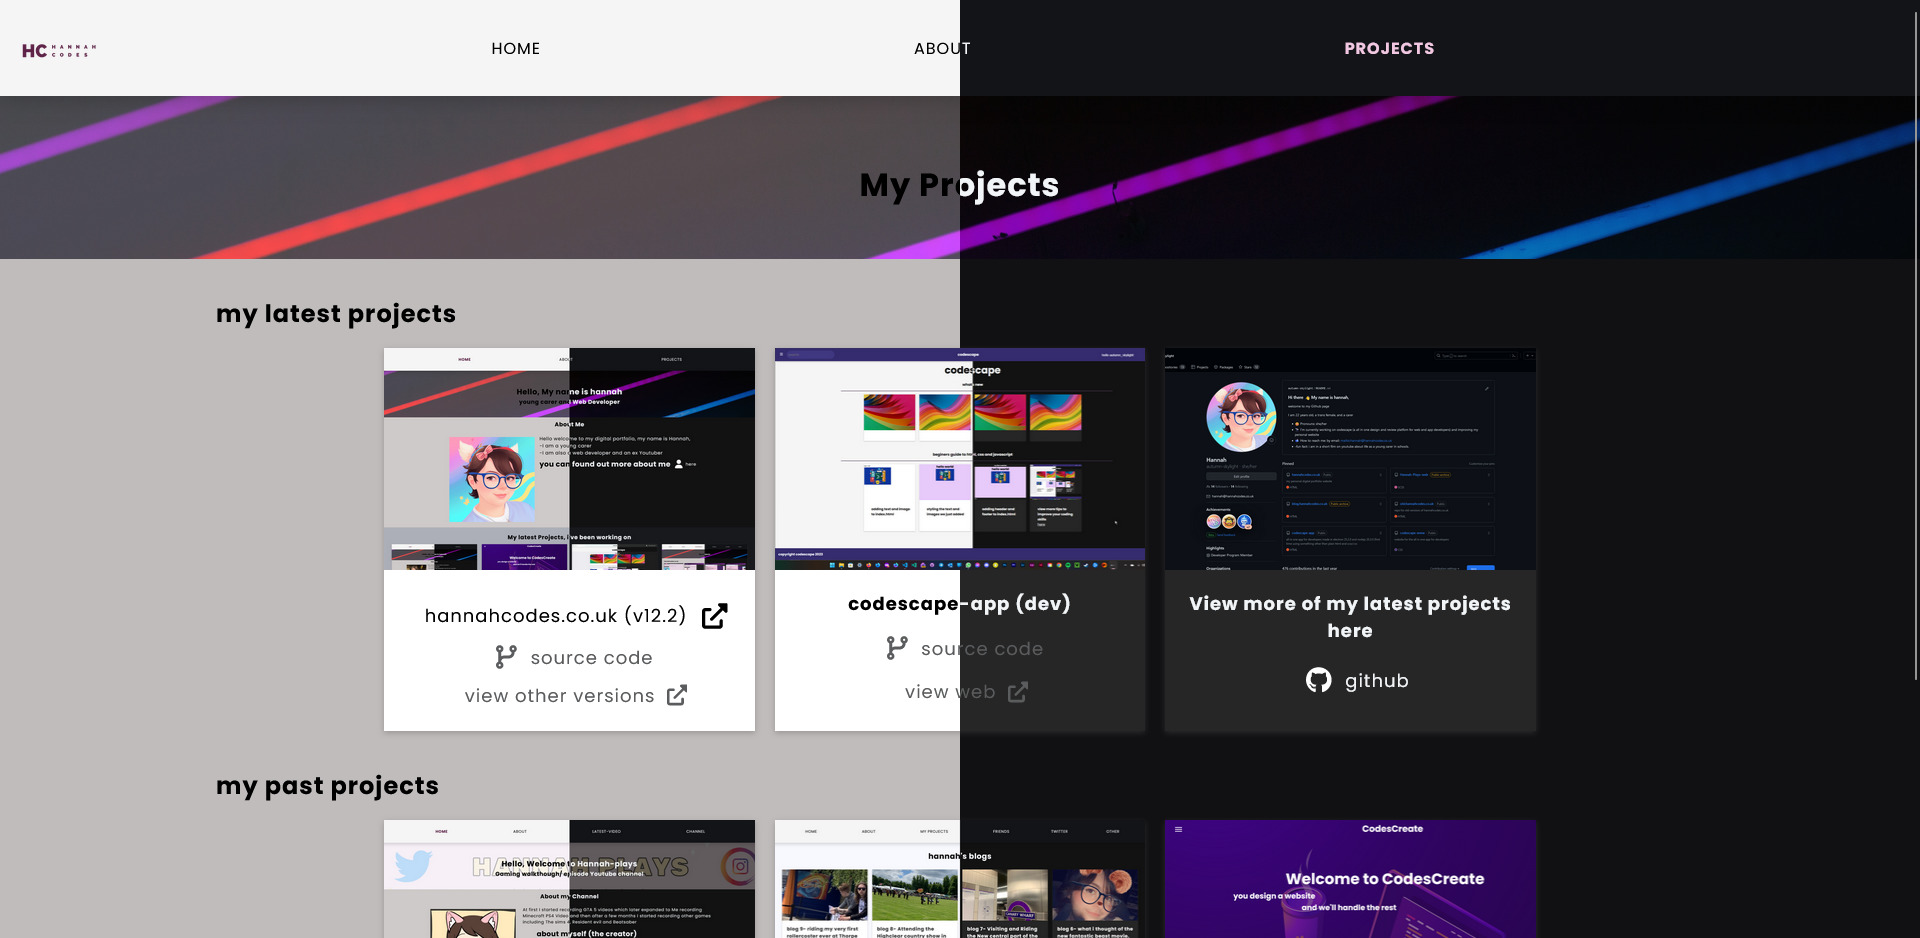
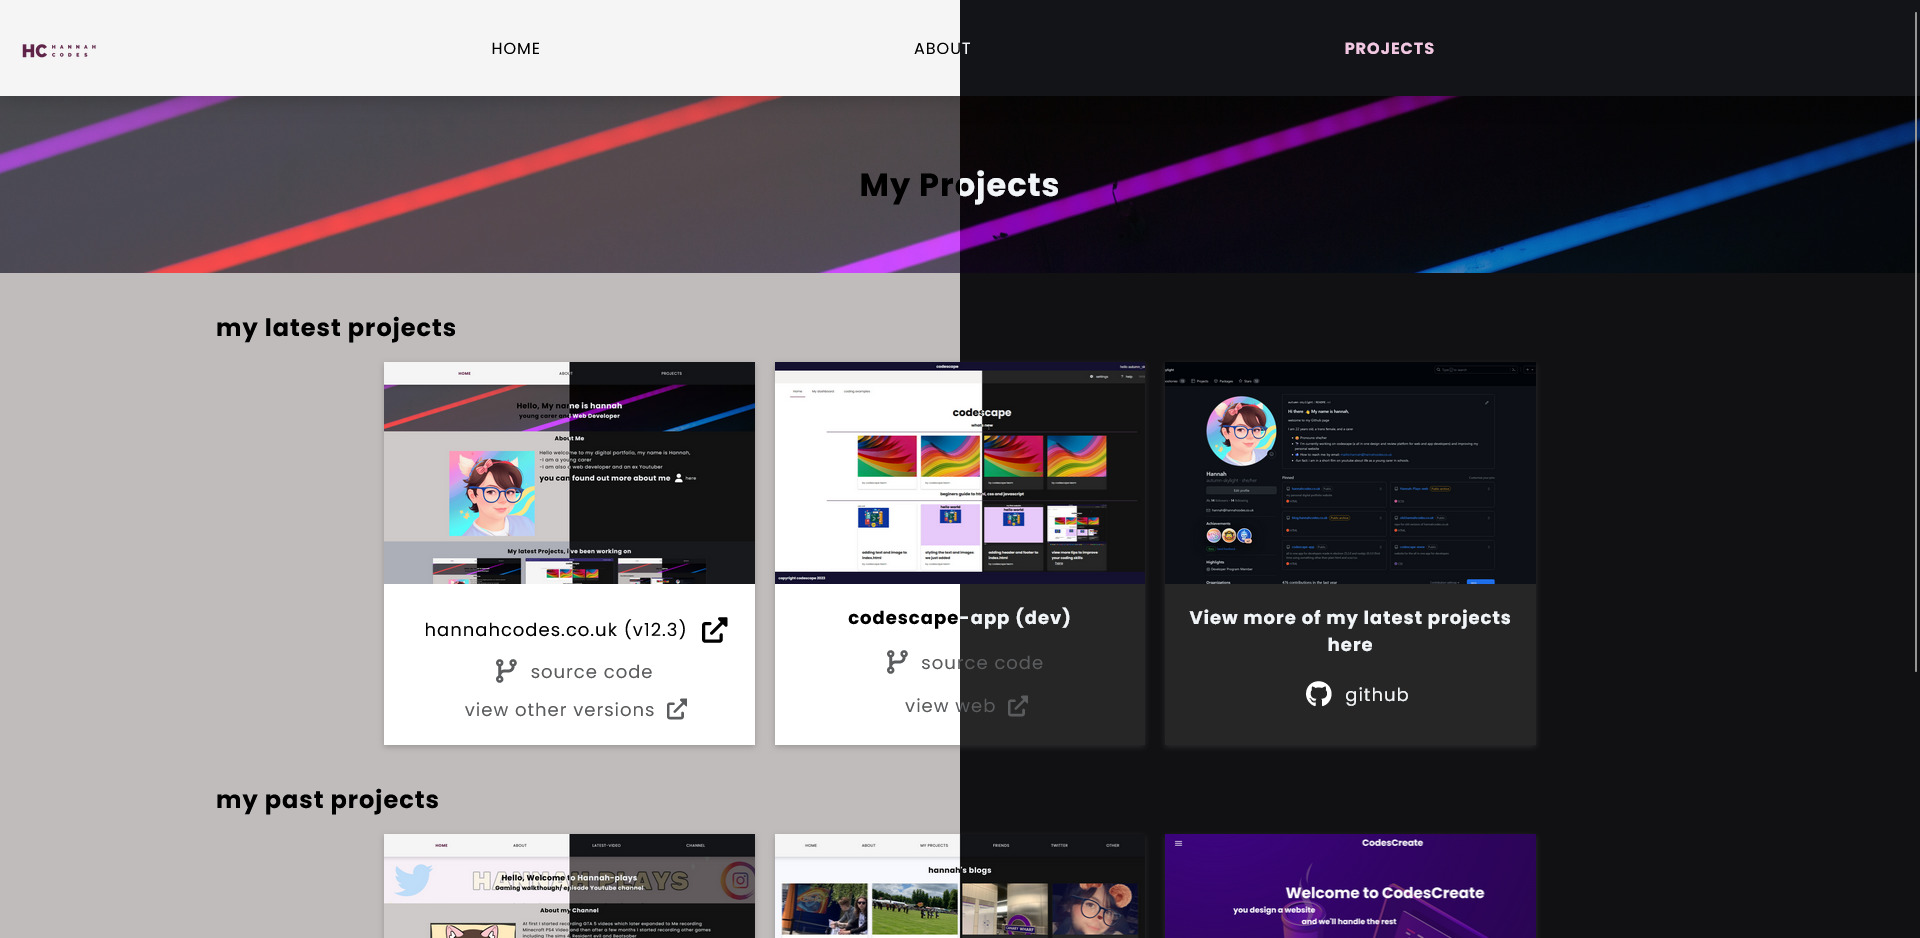
fixed header issues on project page and pixed dark mode issues on about.html

diff --git a/assets/css/main.scss b/assets/css/main.scss
@@ -868,7 +868,6 @@ font-size: 1em;
   text-align: center;
   outline: none;
   transition: 0.4s;
-
  @media screen and (max-width: 800px) {
 width: 60%;
 margin-left: 20%;
@@ -880,6 +879,7 @@ border: .1px solid rgba(117, 115, 115, 0.404);
 
 }
 }
+
 
 /* Add a background color to the button if it is clicked on (add the .active class with JS), and when you move the mouse over it (hover) */
 .about_active, .accordion:hover {
@@ -903,12 +903,29 @@ margin-left: 20%;
 @media screen and (max-width: 800px) {
 width: 90%;
 margin-left: 5%;
+}
 @media (prefers-color-scheme: dark) {
-      background-color: var(--section-3-bg-colour);
+  background-color: var(--section-3-bg-colour);
     }
  }
-} 
+
 /*-------------5:project.html styling-------------*/
+.project_h1 {
+  padding-top: 2em;
+padding-bottom: 2em;
+  margin: auto;
+  text-align: center;
+  color: var(--light-nav-text-colour);
+  @media screen and (max-width: 800px) {
+    padding-top: 7em;
+    font-size: 1.25em;
+    padding-left: 2em;
+    padding-right: 2em;
+  }
+  @media (prefers-color-scheme: dark) {
+    color: var(--nav-text-colour);
+  }
+}
 .projects_hc_section {
   background-color: var(--light-section-1-bg-colour);
   padding-bottom: 1em;

diff --git a/assets/css/main.css b/assets/css/main.css
@@ -1017,13 +1017,34 @@ nav .project_active {
     margin-left: 5%;
   }
 }
-@media screen and (max-width: 800px) and (prefers-color-scheme: dark) {
+@media (prefers-color-scheme: dark) {
   .panel {
     background-color: var(--section-3-bg-colour);
   }
 }
 
 /*-------------5:project.html styling-------------*/
+.project_h1 {
+  padding-top: 2em;
+  padding-bottom: 2em;
+  margin: auto;
+  text-align: center;
+  color: var(--light-nav-text-colour);
+}
+@media screen and (max-width: 800px) {
+  .project_h1 {
+    padding-top: 7em;
+    font-size: 1.25em;
+    padding-left: 2em;
+    padding-right: 2em;
+  }
+}
+@media (prefers-color-scheme: dark) {
+  .project_h1 {
+    color: var(--nav-text-colour);
+  }
+}
+
 .projects_hc_section {
   background-color: var(--light-section-1-bg-colour);
   padding-bottom: 1em;
